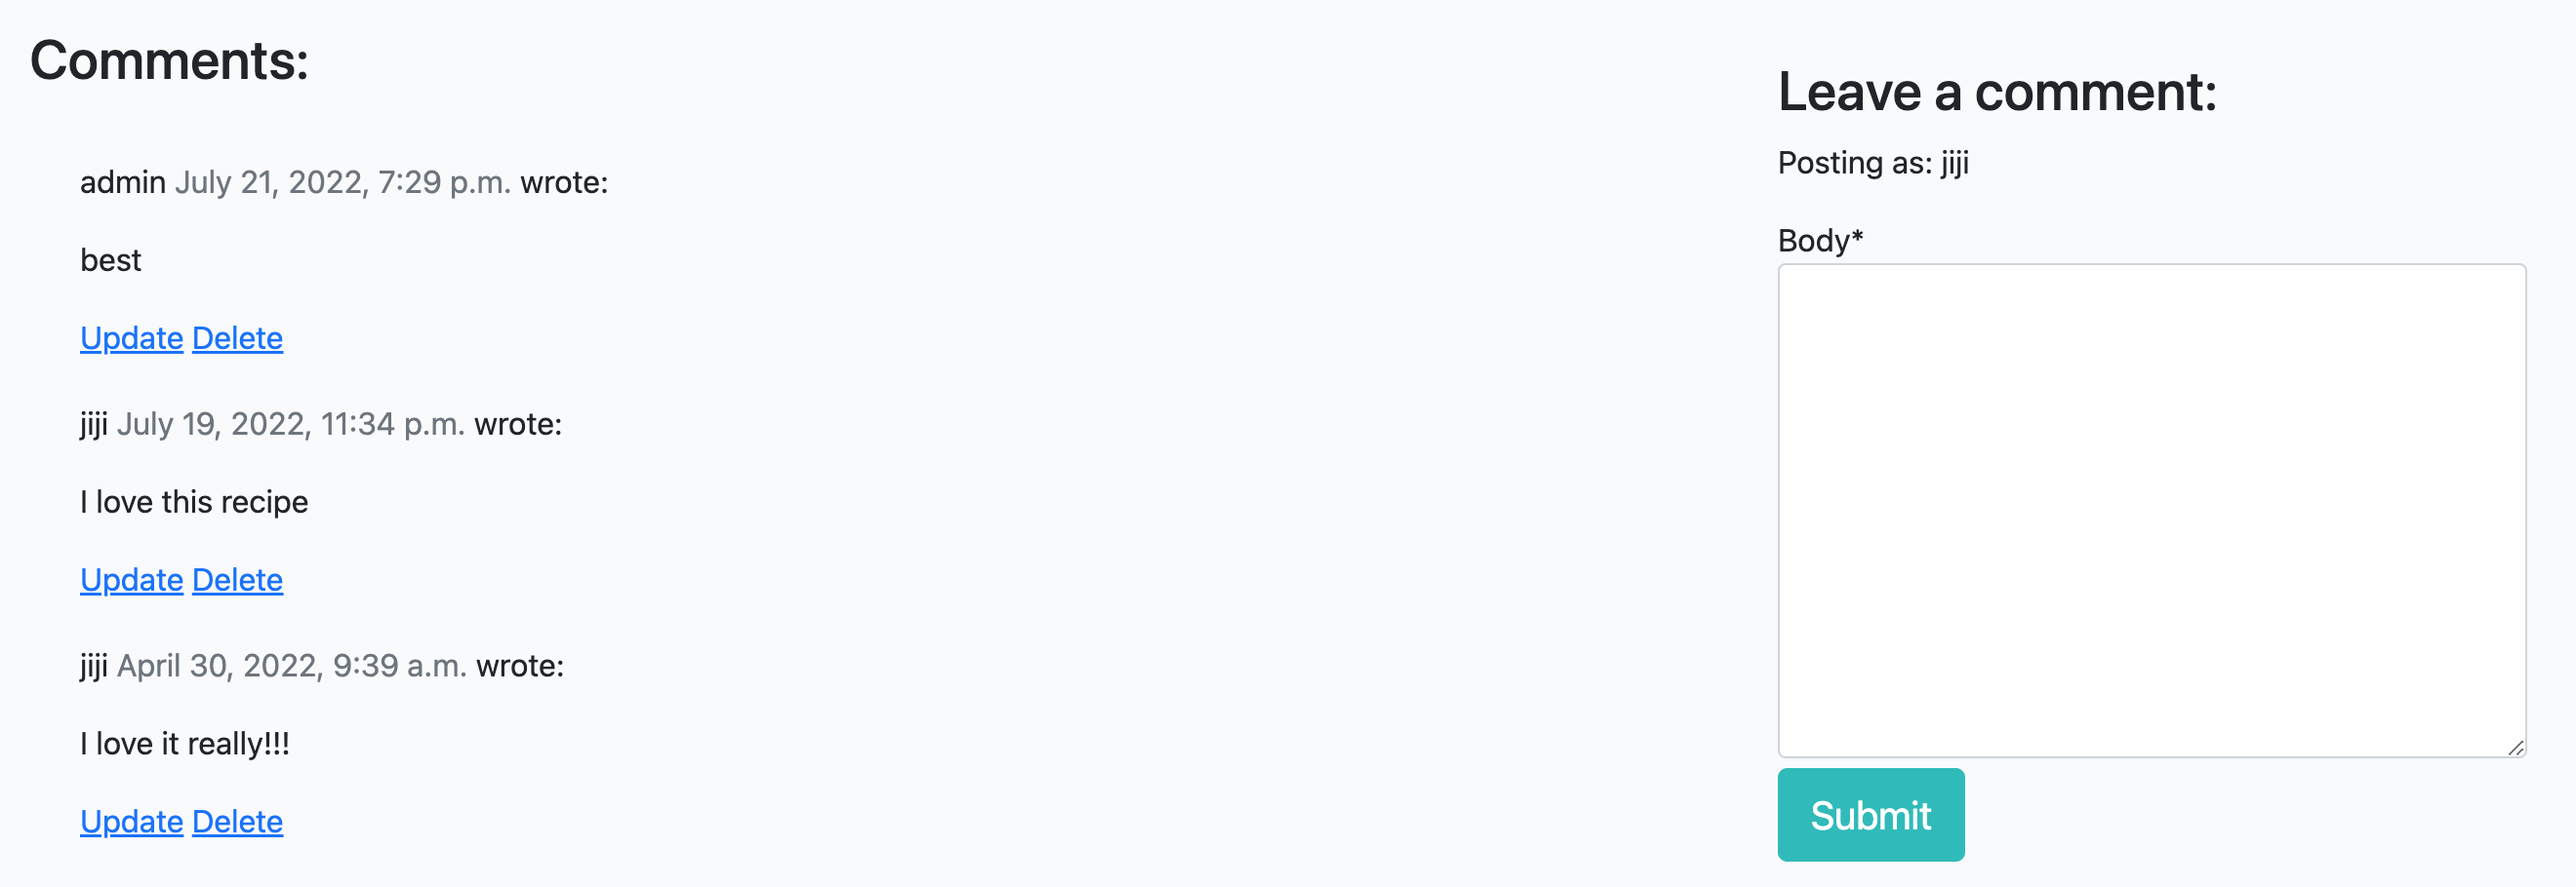
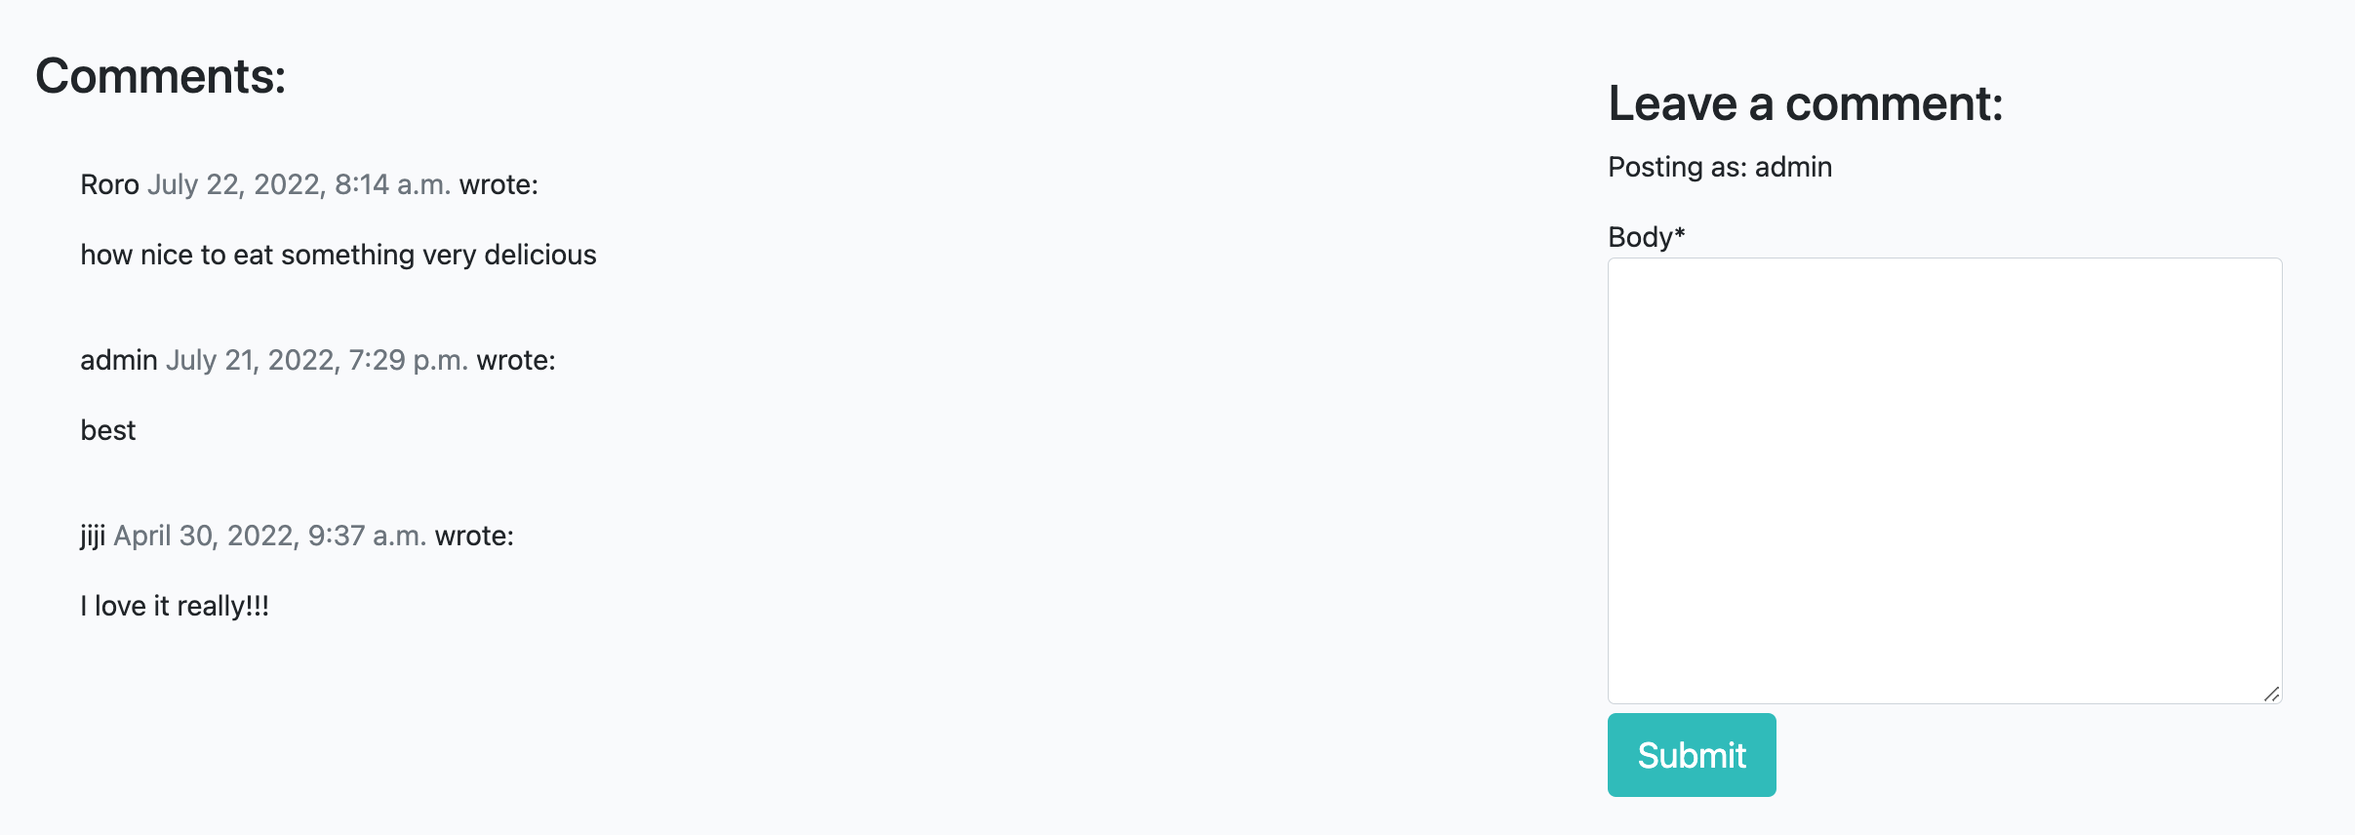
add delete recipe feature and update the readme

diff --git a/templates/recipe_detail.html b/templates/recipe_detail.html
@@ -11,7 +11,8 @@
                 <!-- Recipe author goes before the | the post's created date goes after -->
                 <p class="recipe-subtitle">{{ recipe.author }} | {{ recipe.created_on }} 
                     {% if user.is_superuser %}
-                    | <a href="{% url 'edit_recipe' recipe.slug %}">Edit</a></p>
+                    | <a href="{% url 'edit_recipe' recipe.slug %}" style="color: white;">Edit</a>
+                    | <a href="{% url 'delete_recipe' recipe.slug %}" style="color: white;">Remove</a></p>
                     {% else %}
                     </p>
                     {% endif %} 
@@ -107,19 +108,9 @@
                             </span> wrote:
                         </p>
                         <!-- The body of the comment goes before the | -->
-                        {% if user.is_authenticated %}
-                        {{ comment.body | linebreaks }}
-                            <td>
-                                <a href="">
-                                    <button>Edit</button>
-                                </a>
-                                <a href="#" aria-label="Delete comment"> Delete</a>
-                            </td>
-                        {% else %}
-
-                        {{ comment.body | linebreaks }}
-                        
-                        {% endif %}
+                        <p>
+                            {{ comment.body | linebreaks }}
+                        </p>
                 </div>
                 <!-- Our for loop ends here -->
                 {% endfor %}

diff --git a/templates/delete_recipe.html b/templates/delete_recipe.html
@@ -1,0 +1,21 @@
+{% extends "base.html" %}
+
+{% block content %}
+
+<div class="container">
+    <div class="row">
+        <h1>Remove Recipe:</h3>
+        <div class="form-group">
+            <h4>Are you sure you want to remove {{ recipe.title }}?</h4>
+            <a href="{% url 'home' %}" style="margin-top: 1em;">
+                <button type="submit" class="btn btn-signup btn-lg" style="margin: 5px; margin-left: 0;">Cancel</button>
+            </a>
+            <form method="POST" style="margin-top: 1em;">
+                {% csrf_token %}
+                <button type="submit" class="btn btn-signup btn-lg" style="margin: 5px; margin-left: 0;">Remove</button>
+            </form>
+        </div>
+    </div>
+</div>
+
+{%endblock%}

diff --git a/templates/index.html b/templates/index.html
@@ -30,7 +30,8 @@
                             <p class="card-text text-muted h6">{{ recipe.created_on }} <i 
                                     class="far fa-heart"></i> {{ recipe.number_of_likes }}
                                     {% if user.is_superuser %}
-                                    | <a href="{% url 'edit_recipe' recipe.slug %}">Edit</a></p>
+                                    | <a href="{% url 'edit_recipe' recipe.slug %}" style="color: purple;">Edit</a>
+                                    | <a href="{% url 'delete_recipe' recipe.slug %}" style="color: purple;">Remove</a></p>
                                     {% else %}
                                     </p>
                                     {% endif %} 

diff --git a/templates/edit_recipe.html b/templates/edit_recipe.html
@@ -8,8 +8,9 @@
         <p>Only the admin can edit recipes</p>
         <div class="form-group">
             <form method="POST" style="margin-top: 1em;">
-                {{ form.as_p }}
                 {% csrf_token %}
+                {{ form.media }}
+                {{ form.as_p }}
                 <button type="submit" class="btn btn-signup btn-lg" style="margin: 5px; margin-left: 0;">Update</button>
             </form>
         </div>

diff --git a/templates/add_recipe.html b/templates/add_recipe.html
@@ -8,8 +8,9 @@
         <p>Only the admin can add recipes</p>
         <div class="form-group">
             <form method="POST" style="margin-top: 1em;">
-                {{ form.as_p }}
                 {% csrf_token %}
+                {{ form.media }}
+                {{ form.as_p }}
                 <button type="submit" class="btn btn-signup btn-lg" style="margin: 5px; margin-left: 0;">Submit</button>
             </form>
         </div>

diff --git a/recipe/views.py b/recipe/views.py
@@ -3,6 +3,7 @@ from django.views import generic, View
 from django.http import HttpResponseRedirect
 from .models import Recipe, Comments
 from .forms import CommentForm, RecipeForm
+from django.urls import reverse_lazy
 
 
 class RecipeList(generic.ListView):
@@ -80,33 +81,6 @@ class RecipeLike(View):
         return HttpResponseRedirect(reverse('recipe_detail', args=[slug]))
 
 
-# def add_recipe(request):
-#     if request.method == 'POST':
-#         recipe_form = RecipeForm(request.POST)
-#         if recipe_form.is_valid():
-#             recipe_form.save()
-#             return redirect('home')
-#     recipe_form = RecipeForm
-#     context = {
-#         'recipe_form': recipe_form
-#     }
-#     return render(request, 'add_recipe.html', context)
-
-    
-# def edit_recipe(request, slug):
-#     recipe = get_object_or_404(Recipe, slug=slug)
-#     if request.method == 'POST':
-#         recipe_form = RecipeForm(request.POST, instance=recipe)
-#         if recipe_form.is_valid():
-#             recipe_form.save()
-#             return redirect('home')
-#     recipe_form = RecipeForm
-#     context = {
-#         'recipe_form': recipe_form
-#     }
-#     return render(request, 'edit_recipe.html', context)
-
-
 class AddRecipe(generic.CreateView):
     model = Recipe
     form_class = RecipeForm
@@ -115,5 +89,11 @@ class AddRecipe(generic.CreateView):
 
 class EditRecipe(generic.UpdateView):
     model = Recipe
+    form_class = RecipeForm
     template_name = 'edit_recipe.html'
-    fields = ['title', 'ingredients', 'preparation_content', 'featured_image', 'status']
+
+
+class DeleteRecipe(generic.DeleteView):
+    model = Recipe
+    template_name = 'delete_recipe.html'
+    success_url = reverse_lazy('home')

diff --git a/recipe/forms.py b/recipe/forms.py
@@ -11,13 +11,21 @@ class CommentForm(forms.ModelForm):
 class RecipeForm(forms.ModelForm):
     class Meta:
         model = Recipe
-        fields = ['title', 'slug', 'author', 'ingredients', 'preparation_content', 'featured_image', 'status',]
+        fields = ['title', 'slug', 'author', 'ingredients',
+                  'preparation_content', 'featured_image', 'status']
 
         widgets = {
-            'title' : forms.TextInput(attrs={'class': 'form-control', 'placeholder': 'Write your title here...'}),
-            'slug' : forms.TextInput(attrs={'class': 'form-control'}),
+            'title': forms.TextInput(
+                attrs={
+                    'class': 'form-control',
+                    'placeholder': 'Write your title here...'}),
+            'slug': forms.TextInput(attrs={'class': 'form-control'}),
             'author': forms.Select(attrs={'class': 'form-control'}),
-            'ingredients': forms.Textarea(attrs={'class': 'form-control', 'placeholder': 'Write down all the Ingredients needed in this area...'}),
-            'preparation_content': forms.Textarea(attrs={'class': 'form-control', 'placeholder': 'Write a detailed description for the recipe in this area...'}),
+            'ingredients': forms.Textarea(
+                attrs={'class': 'form-control',
+                       'placeholder': 'Write down all the Ingredients ...'}),
+            'preparation_content': forms.Textarea(
+                attrs={'class': 'form-control',
+                       'placeholder': 'Write a detailed description...'}),
             'status': forms.Select(attrs={'class': 'form-control'}),
         }

diff --git a/recipe/models.py b/recipe/models.py
@@ -2,6 +2,7 @@ from django.db import models
 from django.contrib.auth.models import User
 from cloudinary.models import CloudinaryField
 from django.urls import reverse
+from ckeditor.fields import RichTextField
 
 STATUS = ((0, "Draft"), (1, "Published"))
 
@@ -12,8 +13,10 @@ class Recipe(models.Model):
     author = models.ForeignKey(
         User, on_delete=models.CASCADE, related_name="recipe_post")
     updated_on = models.DateTimeField(auto_now=True)
-    ingredients = models.TextField()
-    preparation_content = models.TextField()
+    # ingredients = models.TextField()
+    ingredients = RichTextField(blank=True ,null=True)
+    # preparation_content = models.TextField()
+    preparation_content = RichTextField(blank=True ,null=True)
     featured_image = CloudinaryField('image', default='placeholder')
     created_on = models.DateTimeField(auto_now_add=True)
     status = models.IntegerField(

diff --git a/recipe/migrations/0003_auto_20220906_1817.py b/recipe/migrations/0003_auto_20220906_1817.py
@@ -1,0 +1,24 @@
+# Generated by Django 3.2.13 on 2022-09-06 18:17
+
+import ckeditor.fields
+from django.db import migrations
+
+
+class Migration(migrations.Migration):
+
+    dependencies = [
+        ('recipe', '0002_auto_20220428_1849'),
+    ]
+
+    operations = [
+        migrations.AlterField(
+            model_name='recipe',
+            name='ingredients',
+            field=ckeditor.fields.RichTextField(blank=True, null=True),
+        ),
+        migrations.AlterField(
+            model_name='recipe',
+            name='preparation_content',
+            field=ckeditor.fields.RichTextField(blank=True, null=True),
+        ),
+    ]

diff --git a/recipe/urls.py b/recipe/urls.py
@@ -1,5 +1,5 @@
 from . import views
-from .views import AddRecipe, EditRecipe
+from .views import AddRecipe, EditRecipe, DeleteRecipe
 # from recipe.views import add_recipe, edit_recipe
 from django.urls import path
 
@@ -10,4 +10,5 @@ urlpatterns = [
     path('<slug:slug>/', views.RecipeDetail.as_view(), name='recipe_detail'),
     path('like/<slug:slug>', views.RecipeLike.as_view(), name='recipe_like'),
     path('edit/<slug:slug>', views.EditRecipe.as_view(), name='edit_recipe'),
+    path('<slug:slug>/remove', views.DeleteRecipe.as_view(), name='delete_recipe'),
 ]

diff --git a/foodmood/settings.py b/foodmood/settings.py
@@ -54,6 +54,7 @@ INSTALLED_APPS = [
     'django_summernote',
     'crispy_forms',
     'recipe',
+    'ckeditor',
 ]
 
 SITE_ID = 1

diff --git a/README.md b/README.md
@@ -63,6 +63,14 @@ The user can chech the website for new recipes and see the likes and comments on
 ![Start of the program](assets/images/04b-likes&comments-count-for-nonuser.png)
 ![Start of the program](assets/images/05b-comments-for-nonuser.png)
 
+* A super user can add, update and delete recipes. Edit and remove buttons are added both in the main page and the detailed view to have faster access. When adding or updating a recipe, we redirect to the detailed view of the recipe and when deleting we redirect to the home page, also there is a cancel button to take us back to the home page in case we do not want to delete.
+![Start of the program](assets/images/aa-Add-recipe.png)
+![Start of the program](assets/images/ab-add-recipe-page.png)
+![Start of the program](assets/images/ac-edit-remove.png)
+![Start of the program](assets/images/ad-edit-remove.png)
+![Start of the program](assets/images/ae-update-recipe.png)
+![Start of the program](assets/images/af-delete%20and%20cancel%20option.png)
+
 * The footer has external links to social media accounts
 
 ![Start of the program](assets/images/08-footer.png)
